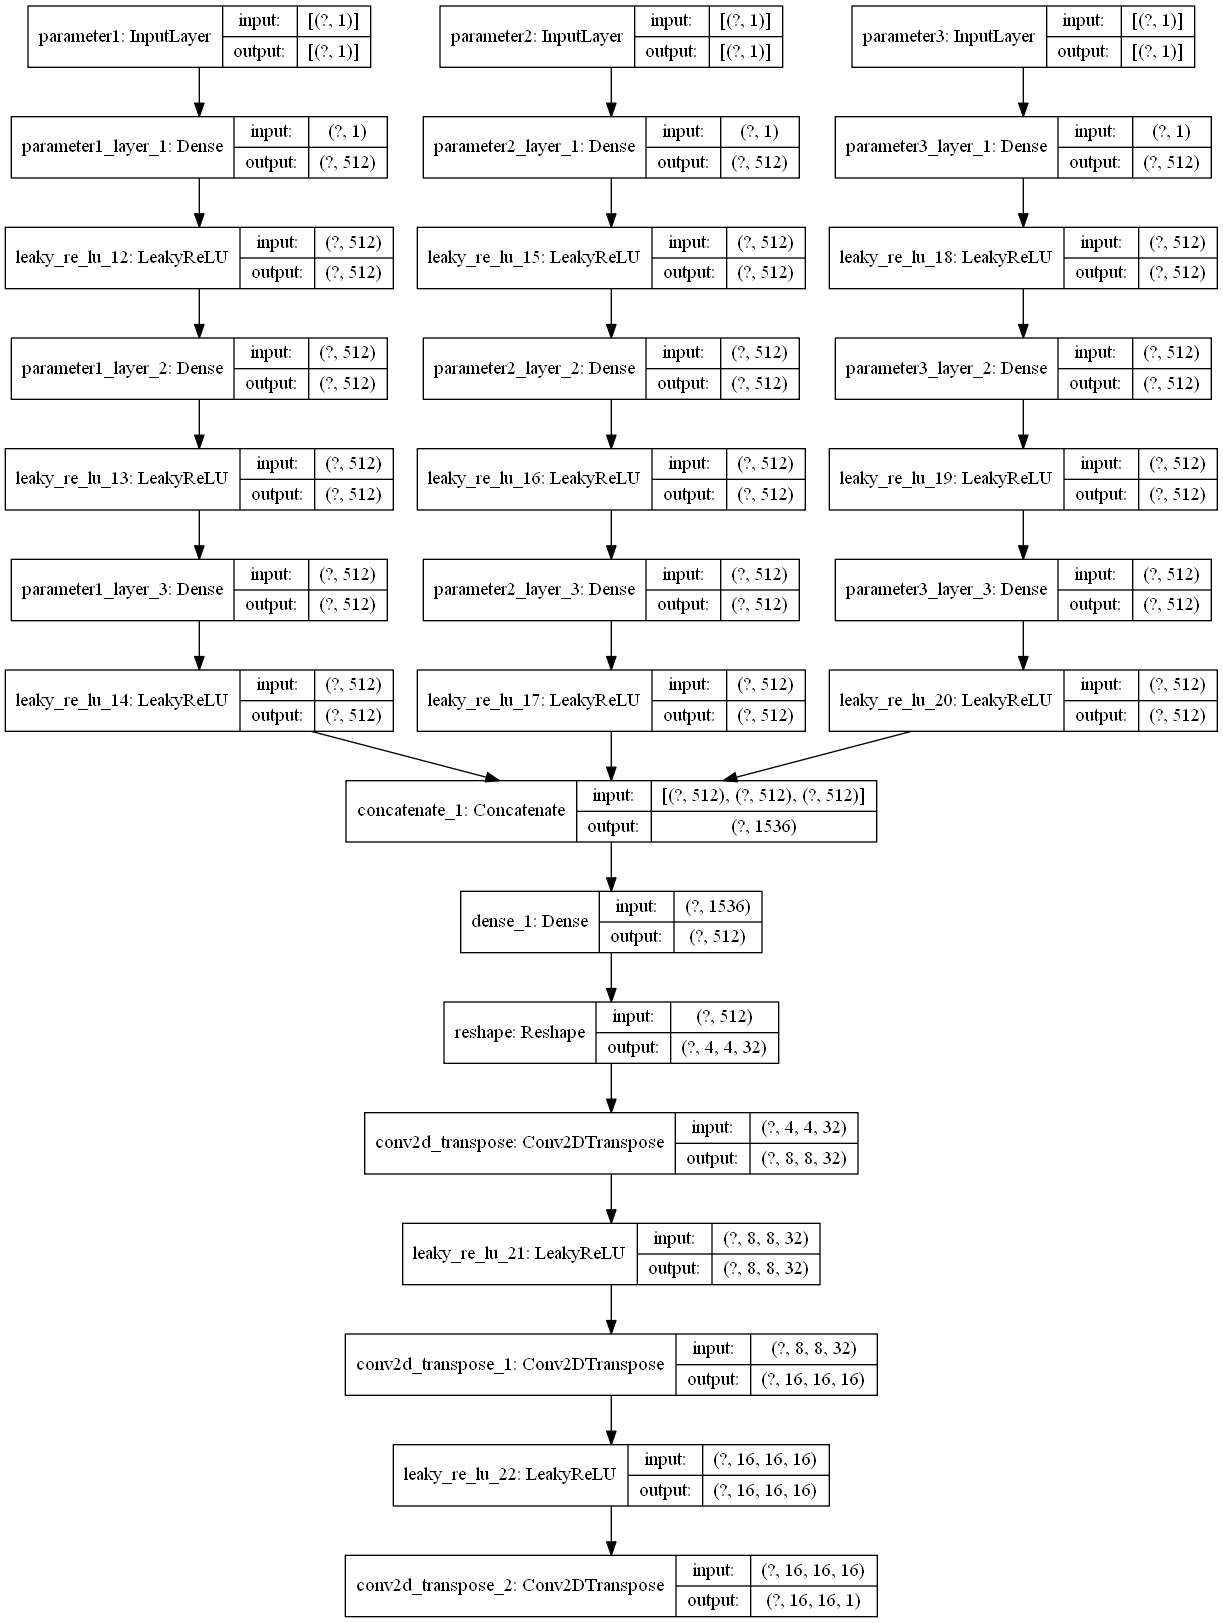
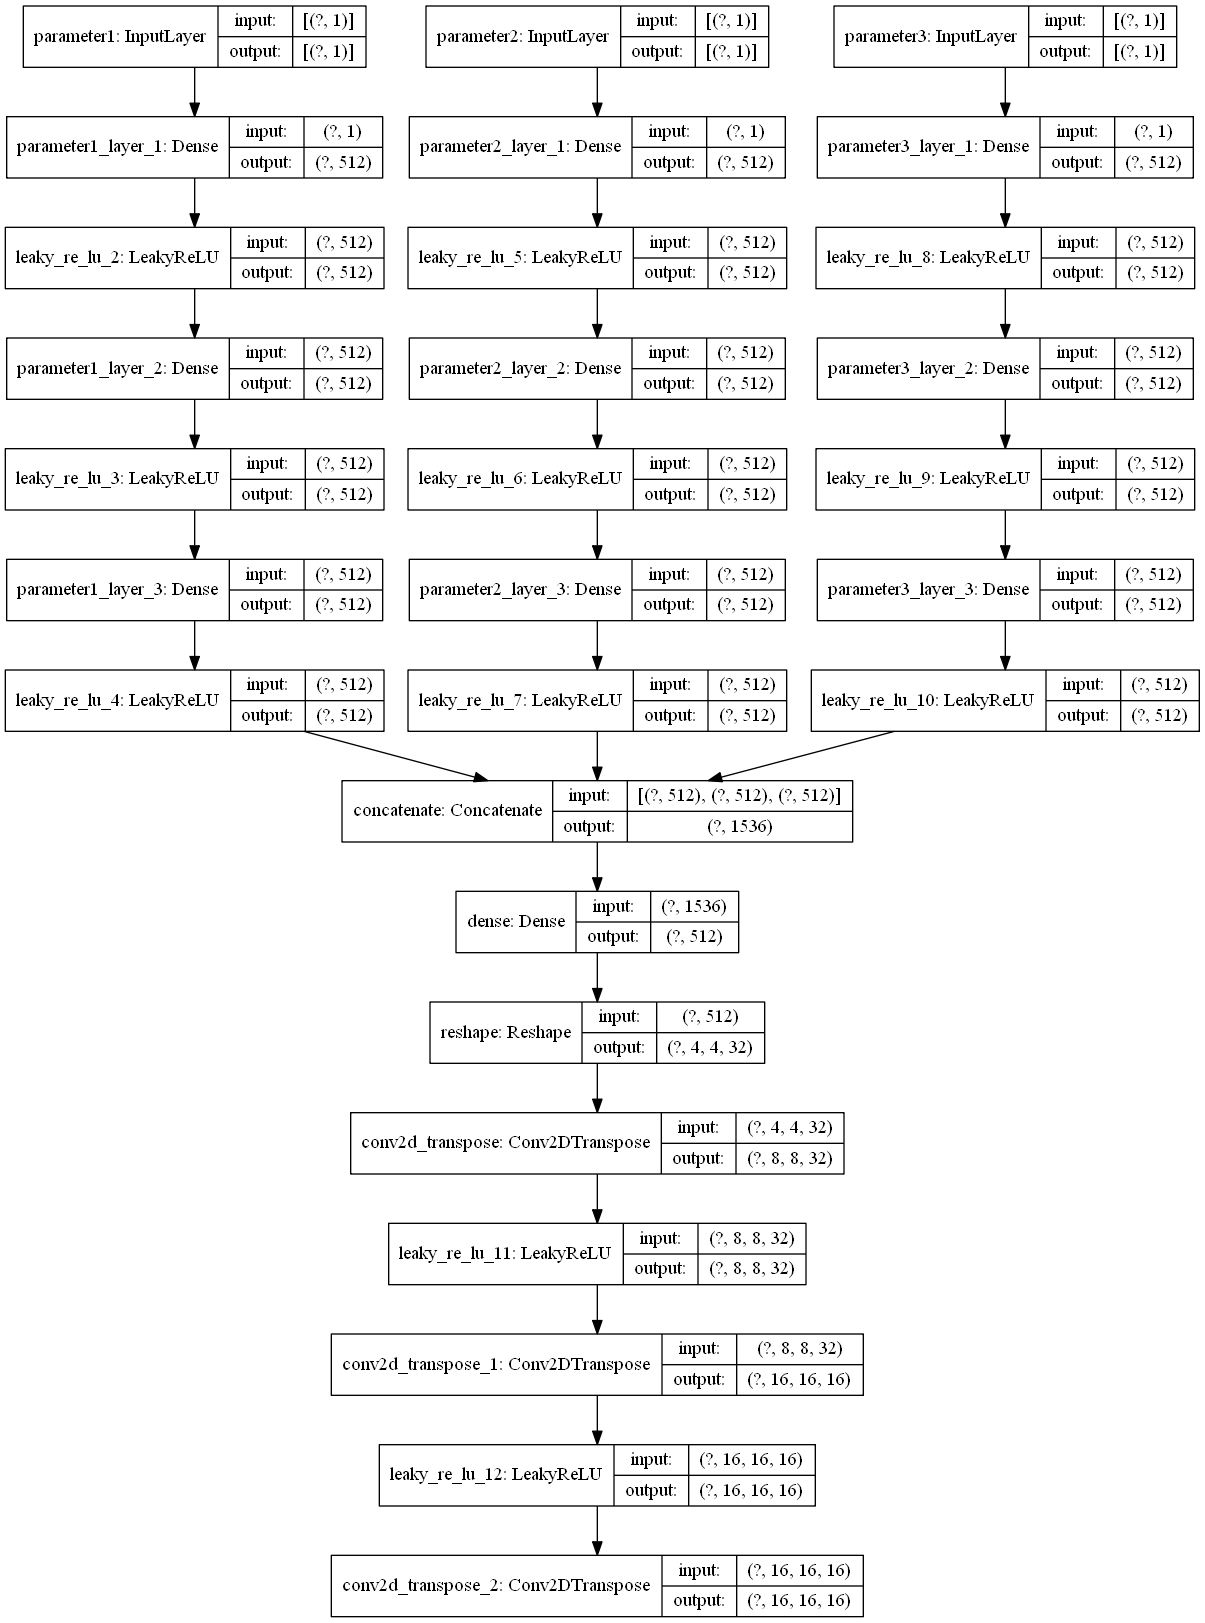
3D開始跑, 沒error, 效果未知

diff --git a/GAN.py b/GAN.py
@@ -88,7 +88,7 @@ class GAN():
         
 
         #g = SpectralNormalization(layers.Conv2DTranspose(1, kernel_size=3, strides=1, padding='same', use_bias=False))(g)
-        g = layers.Conv2DTranspose(1, kernel_size=3, strides=1, padding='same', use_bias=False)(g)
+        g = layers.Conv2DTranspose(16, kernel_size=3, strides=1, padding='same', use_bias=False)(g)
         
         #g = layers.Activation(tf.nn.tanh)(g)
         
@@ -97,50 +97,50 @@ class GAN():
         return model
     
     def discriminator(self):
-        parameter1_input = keras.Input(shape = (1), name = 'parameter1')
-        parameter2_input = keras.Input(shape = (1), name = 'parameter2')
-        parameter3_input = keras.Input(shape = (1), name = 'parameter3')
+        # parameter1_input = keras.Input(shape = (1), name = 'parameter1')
+        # parameter2_input = keras.Input(shape = (1), name = 'parameter2')
+        # parameter3_input = keras.Input(shape = (1), name = 'parameter3')
         dataInput = keras.Input(shape = (self.length,self.width, self.height), name = 'groundTruth/fake')
 
-        x = layers.Dense(512, name = 'parameter1_layer_1')(parameter1_input)
-        # if self.hparams[HP_BN_UNITS] : x = layers.BatchNormalization()(x)
-        x = layers.LeakyReLU()(x)
+        # x = layers.Dense(512, name = 'parameter1_layer_1')(parameter1_input)
+        # # if self.hparams[HP_BN_UNITS] : x = layers.BatchNormalization()(x)
+        # x = layers.LeakyReLU()(x)
         
-        x = layers.Dense(512, name = 'parameter1_layer_2')(x)
-        # if self.hparams[HP_BN_UNITS] : x = layers.BatchNormalization()(x)
-        x = layers.LeakyReLU()(x)
+        # x = layers.Dense(512, name = 'parameter1_layer_2')(x)
+        # # if self.hparams[HP_BN_UNITS] : x = layers.BatchNormalization()(x)
+        # x = layers.LeakyReLU()(x)
 
-        x = layers.Dense(512, name = 'parameter1_layer_3')(x)
-        # if self.hparams[HP_BN_UNITS] : x = layers.BatchNormalization()(x)
-        x = layers.LeakyReLU()(x)
+        # x = layers.Dense(512, name = 'parameter1_layer_3')(x)
+        # # if self.hparams[HP_BN_UNITS] : x = layers.BatchNormalization()(x)
+        # x = layers.LeakyReLU()(x)
         
-        y = layers.Dense(512, name = 'parameter2_layer_1')(parameter2_input)
-        # if self.hparams[HP_BN_UNITS] : y = layers.BatchNormalization()(y)
-        y = layers.LeakyReLU()(y)
+        # y = layers.Dense(512, name = 'parameter2_layer_1')(parameter2_input)
+        # # if self.hparams[HP_BN_UNITS] : y = layers.BatchNormalization()(y)
+        # y = layers.LeakyReLU()(y)
 
-        y = layers.Dense(512, name = 'parameter2_layer_2')(y)
-        # if self.hparams[HP_BN_UNITS] : y = layers.BatchNormalization()(y)
-        y = layers.LeakyReLU()(y)
+        # y = layers.Dense(512, name = 'parameter2_layer_2')(y)
+        # # if self.hparams[HP_BN_UNITS] : y = layers.BatchNormalization()(y)
+        # y = layers.LeakyReLU()(y)
 
-        y = layers.Dense(512, name = 'parameter2_layer_3')(y)
-        # if self.hparams[HP_BN_UNITS] : y = layers.BatchNormalization()(y)
-        y = layers.LeakyReLU()(y)
+        # y = layers.Dense(512, name = 'parameter2_layer_3')(y)
+        # # if self.hparams[HP_BN_UNITS] : y = layers.BatchNormalization()(y)
+        # y = layers.LeakyReLU()(y)
         
-        z = layers.Dense(512, name = 'parameter3_layer_1')(parameter3_input)
-        # if self.hparams[HP_BN_UNITS] : z = layers.BatchNormalization()(z)
-        z = layers.LeakyReLU()(z)
+        # z = layers.Dense(512, name = 'parameter3_layer_1')(parameter3_input)
+        # # if self.hparams[HP_BN_UNITS] : z = layers.BatchNormalization()(z)
+        # z = layers.LeakyReLU()(z)
 
-        z = layers.Dense(512, name = 'parameter3_layer_2')(z)
-        # if self.hparams[HP_BN_UNITS] : z = layers.BatchNormalization()(z)
-        z = layers.LeakyReLU()(z)
+        # z = layers.Dense(512, name = 'parameter3_layer_2')(z)
+        # # if self.hparams[HP_BN_UNITS] : z = layers.BatchNormalization()(z)
+        # z = layers.LeakyReLU()(z)
 
-        z = layers.Dense(512, name = 'parameter3_layer_3')(z)
-        # if self.hparams[HP_BN_UNITS] : z = layers.BatchNormalization()(z)
-        z = layers.LeakyReLU()(z)
+        # z = layers.Dense(512, name = 'parameter3_layer_3')(z)
+        # # if self.hparams[HP_BN_UNITS] : z = layers.BatchNormalization()(z)
+        # z = layers.LeakyReLU()(z)
 
-        concatenate = layers.concatenate(inputs = [x, y, z])
-        xyz = layers.Dense((int(log(self.width/8, 2))+1)*self.filterNumber)(concatenate)    #Depends on how many level of conv2D you have
-        xyz = layers.LeakyReLU()(xyz)
+        # concatenate = layers.concatenate(inputs = [x, y, z])
+        # xyz = layers.Dense((int(log(self.width/8, 2))+1)*self.filterNumber)(concatenate)    #Depends on how many level of conv2D you have
+        # xyz = layers.LeakyReLU()(xyz)
         
 
         #d = SpectralNormalization(layers.Conv2D(self.filterNumber, kernel_size=3, strides=2, padding='same', use_bias=False))(dataInput)
@@ -165,7 +165,8 @@ class GAN():
         #r = layers.Activation(tf.nn.tanh)(r)
 
 
-        model = keras.Model(inputs = [parameter1_input, parameter2_input, parameter3_input, dataInput], outputs = d)
+        #model = keras.Model(inputs = [parameter1_input, parameter2_input, parameter3_input, dataInput], outputs = d)
+        model = keras.Model(inputs = [dataInput], outputs = d)
         plot_model(model, to_file = "WGAN_Discriminator.png", show_shapes=True)
         return model
     
@@ -196,7 +197,8 @@ class GAN():
         x_img = _interpolate(real_data[1], fake_data)
         with tf.GradientTape() as tape:
             tape.watch(x_img)
-            pred_logit = dis([real_data[0][0], real_data[0][1], real_data[0][2], x_img])
+            #pred_logit = dis([real_data[0][0], real_data[0][1], real_data[0][2], x_img])
+            pred_logit = dis([x_img])
         grad = tape.gradient(pred_logit, x_img)
         norm = tf.norm(tf.reshape(grad, [tf.shape(grad)[0], -1]), axis = 1)
         gp_loss = tf.reduce_mean((norm-1.)**2)
@@ -215,7 +217,8 @@ class GAN():
             fake_data_by_random_parameter = self.gen([random_vector1, random_vector2, random_vector3],training = True)  #generate by random parameter
             fake_data_by_real_parameter = self.gen([real_data[0][0], real_data[0][1], real_data[0][2]],training = True) #generate by real parameter
 
-            fake_logit = self.dis([random_vector1, random_vector2, random_vector3, fake_data_by_random_parameter], training = False)
+            #fake_logit = self.dis([random_vector1, random_vector2, random_vector3, fake_data_by_random_parameter], training = False)
+            fake_logit = self.dis([fake_data_by_random_parameter], training = False)
             fake_loss, l2_norm = self.generator_loss(fake_logit, real_data, fake_data_by_real_parameter)
             gLoss = fake_loss+self.L2_coefficient*l2_norm
         gradients = tape.gradient(gLoss, self.gen.trainable_variables)
@@ -233,8 +236,10 @@ class GAN():
             # std = tf.reshape(real_data[1][3], [self.batchSize, 1, 1, 1])
 
             fake_data = self.gen([random_vector1, random_vector2, random_vector3],training = True)
-            real_logit = self.dis([real_data[0][0], real_data[0][1], real_data[0][2], real_data[1]] , training = True)
-            fake_logit = self.dis([random_vector1, random_vector2, random_vector3, fake_data], training = True)
+            #real_logit = self.dis([real_data[0][0], real_data[0][1], real_data[0][2], real_data[1]] , training = True)
+            real_logit = self.dis([real_data[1]] , training = True)
+            #fake_logit = self.dis([random_vector1, random_vector2, random_vector3, fake_data], training = True)
+            fake_logit = self.dis([fake_data], training = True)
             real_loss, fake_loss = self.discriminator_loss(real_logit, fake_logit)
             gp_loss = self.gradient_penality(partial(self.dis, training = True), real_data, fake_data)
             dLoss = (real_loss + fake_loss) + gp_loss*self.gradient_penality_width
@@ -280,7 +285,7 @@ class GAN():
         test_data_batch = test_data.batch(100, drop_remainder = True)
         training_batch = training_batch.prefetch(buffer_size = AUTOTUNE)
         validating_batch = validating_batch.prefetch(buffer_size = AUTOTUNE)
-       
+
         summary_writer = tf.summary.create_file_writer(self.logdir)
         # tf.summary.trace_on(graph=True, profiler=True)
         saveModel = SaveModel(self.gen, self.logdir, mode = 'min', save_weights_only=False)   #建立一個訓練規則
